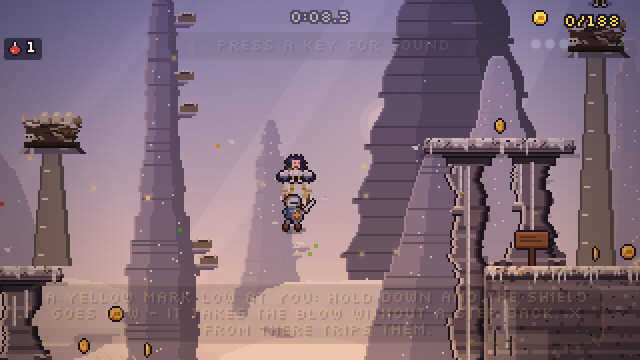
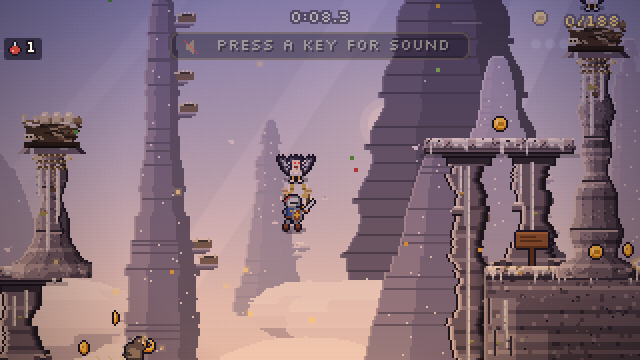
rookery2art: gale harpy own sheet, anchor art (spires, corbels, chains, lashings), shot tools

diff --git a/src/redraw/rookery_anchor_art.js b/src/redraw/rookery_anchor_art.js
@@ -1,0 +1,87 @@
+// rookery_anchor_art.js - THE ROOKERY'S STRUCTURE, DRAWN (claude/rookery2art; brief scratch/brief-rookery2-1027.md A3, Daniel 10-27: "stone ledges and pillars that end in mid-air, a lantern gibbet
+// on nothing"). Every roost, gale perch and hung nest's arm hangs on SOMETHING (src/rookery-anchors.js says what); this draws it, in the crag's own stone (rookery_pal.js) so it reads as part
+// of the cliff and not a prop:
+//   SPIRE     a hoodoo of wind-scoured rock rising from the footing - strata, a lit west face and a dark east one, guano streaked down from the nest, cracks, a lichen patch, its foot
+//             spread into scree - with the nest LASHED to its neck: sinew wraps over a stone shoulder, bone toggles, a rope tail hanging
+//   BRACKET   a CORBEL: a stepped stone brace growing out of the crag face under the nest (three courses, a diagonal buttress into the wall), pegged, lashed, guano dripping off its lip
+//   CHAIN     chains from the overhang above: a staple of iron and bone set in the rock, links of dark iron (lit on one side), two chains meeting a hide-wrapped ring at the nest's rim
+//   CAP       (the walkable-top cap is in rookery_tiles.js)
+// drawAnchor(g, q, cx, cy, TS, time, z)   q: { what, x, y, a: { kind, ... } } as src/rookery-anchors.js gives it.   Baked and memoised: a spire is one drawImage.
+import { canvas, rect as R, mulberry } from '../px.js';
+import { PAL, GUANO, BONE, TWIG, IRON, hash } from './rookery_pal.js';
+const memo = new Map(); const once = (k, fn) => { if (!memo.has(k)) memo.set(k, fn()); return memo.get(k); };
+const px = (g, x, y, c) => R(g, x, y, 1, 1, c);
+const SINEW = ['#5a4a32', '#8a7650', '#b8a47a', '#d8c8a0'];
+
+/* a SPIRE: h tall (from the nest knob's foot down to the footing), canvas 40 wide, its axis at x = 20. The top is the neck (half-width 6), widening to the foot (half-width 13 + scree) */
+function bakeSpire(h, z, seed) {
+  return once('sp' + h + '_' + z + '_' + seed, () => {
+    const W = 40, [c, g] = canvas(W, h + 8), r = mulberry(seed * 7 + h + z * 3), S = PAL[z].s, cxm = 20;
+    const half = y => { const t = y / Math.max(1, h), base = 6 + 7 * Math.pow(t, 1.55), wob = Math.sin(y * 0.31 + seed) * 1.1 + Math.sin(y * 0.11 + seed * 2) * 1.6; return Math.max(5, Math.round(base + wob + (y > h - 5 ? (y - (h - 5)) * 1.6 : 0))); };
+    for (let y = 0; y < h + 6; y++) {
+      const hw = half(Math.min(y, h)), x0 = cxm - hw, x1 = cxm + hw, bed = hash(y >> 1, seed + 5 + z) % 9, tone = bed === 0 ? -1 : bed === 1 ? 1 : 0;
+      for (let x = x0; x < x1; x++) {
+        const u = (x - x0) / (hw * 2);   /* 0 west .. 1 east: lit on the west, dark on the east */
+        let k = u < 0.18 ? 5 : u < 0.4 ? 4 : u < 0.68 ? 3 : u < 0.88 ? 2 : 1;
+        k = Math.max(0, Math.min(6, k + tone)); const j = hash(x, y + seed) % 23; if (j === 0) k = Math.max(0, k - 1); else if (j === 1) k = Math.min(6, k + 1);
+        px(g, x, y, S[k]);
+      }
+      px(g, x0, y, S[6]); px(g, x1 - 1, y, S[0]);   /* the rim light and the dark edge */
+    }
+    for (let q = 0; q < Math.floor(h / 22); q++) { const y = 16 + q * 22 + ((r() * 8) | 0), hw = half(y); R(g, cxm - hw + 1, y, hw * 2 - 2, 1, S[1]); R(g, cxm - hw + 2, y + 1, hw * 2 - 5, 1, S[5]); }   /* strata: a dark bed line and a lit one under it */
+    /* guano streaks from the nest down the west-centre face, a white core and a grey side, long drips */
+    for (const [dx, len] of [[-3, Math.min(h - 6, 26 + ((r() * 18) | 0))], [2, Math.min(h - 6, 14 + ((r() * 18) | 0))], [-7, Math.min(h - 6, 10 + ((r() * 10) | 0))]]) { for (let y = 6; y < 6 + len; y++) { px(g, cxm + dx, y, y % 6 === 5 ? GUANO[1] : GUANO[2]); px(g, cxm + dx + 1, y, GUANO[1]); if (y % 4 === 0) px(g, cxm + dx - 1, y, GUANO[0]); } px(g, cxm + dx, 6 + len, GUANO[1]); }
+    /* a black crack, a lichen patch */
+    { let x = cxm + 2 + ((r() * 4) | 0), y = 24 + ((r() * Math.max(1, h * 0.3)) | 0); for (let i = 0; i < 12 && y < h - 6; i++) { px(g, x, y, S[0]); y++; if (i % 3 === 1) x += r() < 0.5 ? -1 : 1; } }
+    { const L = PAL[z].lichen, lx = cxm - 6 + ((r() * 4) | 0), ly = 12 + ((r() * Math.max(1, h * 0.4)) | 0); R(g, lx, ly, 3, 2, L[0]); px(g, lx + 3, ly, L[1]); px(g, lx + 1, ly - 1, L[1]); }
+    /* the foot: scree and a white splash of guano where it meets the ledge */
+    for (let k = 0; k < 9; k++) { const x = 4 + ((r() * 32) | 0), y = h + ((r() * 4) | 0); R(g, x, y, 2 + ((r() * 3) | 0), 2, r() < 0.5 ? S[3] : S[4]); px(g, x, y, S[5]); }
+    return c; });
+}
+/* the LASHING at a nest's neck: sinew wrapped in a diagonal band over the stone, a bone toggle through each side, a rope tail hanging with a knot */
+function lashing(g, x, y, hw, seed) {
+  const r = mulberry(seed);
+  for (let b = 0; b < 3; b++) { const yy = y + b * 3; for (let xx = -hw; xx < hw; xx++) px(g, x + xx, yy + ((xx + b) & 1), SINEW[(xx + b) & 1 ? 1 : 2]); R(g, x - hw, yy, hw * 2, 1, SINEW[0]); for (let xx = -hw; xx < hw; xx += 3) px(g, x + xx, yy, SINEW[3]); }
+  for (const s of [-1, 1]) { R(g, x + s * (hw - 1) - (s > 0 ? 0 : 3), y + 1, 4, 2, BONE[2]); px(g, x + s * (hw - 1) - (s > 0 ? 0 : 3), y + 1, BONE[3]); px(g, x + s * (hw + 1) - (s > 0 ? 0 : 1), y + 2, BONE[1]); }
+  const tx = x + ((r() * 5) | 0) - 2; for (let i = 0; i < 9; i++) px(g, tx + (i > 5 ? 1 : 0), y + 8 + i, i % 2 ? SINEW[1] : SINEW[2]); R(g, tx - 1, y + 17, 3, 2, SINEW[0]);
+}
+/* a CORBEL (bracket): span px out from the face on side s (the wall is at x = wallX), seat at y; three stepped courses and a buttress. Local origin: the wall's face at (0, 0), growing toward +x */
+function bakeCorbel(span, z, seed) {
+  return once('cb' + span + '_' + z + '_' + seed, () => {
+    const W = span + 4, Hh = Math.min(40, 14 + Math.round(span * 0.5)), [c, g] = canvas(W, Hh), r = mulberry(seed + span), S = PAL[z].s;
+    const bh = Math.min(Hh - 3, 8 + Math.round(span * 0.55));
+    for (let x = 0; x < span; x++) { const t = x / span, hh = Math.max(4, Math.round(bh * (1 - t * 0.82))); for (let y = 0; y < hh; y++) { const k = y < 2 ? 5 : y > hh - 3 ? 1 : 3 + ((x + y) % 5 === 0 ? 1 : 0); px(g, x, y + 4, S[Math.max(0, Math.min(6, k))]); } }   /* the buttress: a wedge, tall at the wall, thin at the tip */
+    for (let k = 0; k < 3; k++) { const x0 = Math.round(span * (0.25 + k * 0.25)); R(g, x0, 4, 1, Math.max(2, Math.round(bh * (1 - (x0 / span) * 0.82))), S[1]); }   /* the courses' joints */
+    R(g, 0, 1, span + 2, 3, S[4]); R(g, 0, 1, span + 2, 1, S[6]); R(g, 0, 3, span + 2, 1, S[1]); R(g, 2, 0, span - 2, 1, GUANO[3]); R(g, 4, 1, span - 8 > 0 ? span - 8 : 2, 1, GUANO[2]);   /* the seat slab, capped with guano */
+    R(g, span + 1, 1, 2, 3, S[3]); px(g, span + 2, 1, S[5]);
+    for (let k = 0; k < 3; k++) { const x = 3 + ((r() * Math.max(1, span - 6)) | 0); for (let y = 4; y < 8 + ((r() * 5) | 0); y++) px(g, x, y, y % 2 ? GUANO[1] : GUANO[2]); }   /* guano dripping off the lip */
+    for (const x of [Math.round(span * 0.3), Math.round(span * 0.65)]) { R(g, x, 4, 3, 2, BONE[2]); px(g, x, 4, BONE[3]); px(g, x + 3, 5, BONE[1]); }   /* the bone pegs the lashings hold on */
+    return c; });
+}
+/* a CHAIN hanging dy px: alternate end-on and side-on links, dark iron lit on the west edge */
+function chain(g, x, y0, dy, seed) {
+  for (let y = 0; y < dy; y += 3) { const side = ((y / 3) | 0) % 2 === 0; if (side) { R(g, x - 1, y0 + y, 3, 3, IRON[1]); R(g, x, y0 + y + 1, 1, 1, '#000'); px(g, x - 1, y0 + y, IRON[3]); px(g, x + 1, y0 + y + 2, IRON[0]); } else { R(g, x, y0 + y, 1, 3, IRON[2]); px(g, x, y0 + y, IRON[3]); } }
+}
+function staple(g, x, y, z) {
+  const S = PAL[z].s; R(g, x - 4, y - 1, 9, 4, IRON[1]); R(g, x - 4, y - 1, 9, 1, IRON[3]); R(g, x - 4, y + 2, 9, 1, IRON[0]); px(g, x - 3, y, IRON[0]); px(g, x + 3, y, IRON[0]); R(g, x - 1, y + 3, 3, 2, IRON[2]); px(g, x, y + 5, IRON[1]);   /* the plate, rivets, the eye */
+  R(g, x - 6, y - 2, 2, 1, S[5]); R(g, x + 5, y - 2, 2, 1, S[1]); R(g, x - 1, y + 4, 3, 1, BONE[2]);   /* chipped rock round it, a bone washer */
+}
+
+export function drawAnchor(g, q, cx, cy, TS, time, z) {
+  const a = q.a; if (!a || a.kind === 'stand') return;
+  const x = Math.round(q.x * TS + 8 - cx), y = Math.round((q.y + 1) * TS - cy), seed = (q.x * 31 + q.y * 17) & 255;
+  if (a.kind === 'spire') {
+    const fy = Math.round(a.foot * TS - cy), top = y + 7, h = Math.max(12, fy - top);
+    const sp = bakeSpire(h, z, seed); g.drawImage(sp, x - 20, top);
+    lashing(g, x, top + 1, 8, seed);
+  } else if (a.kind === 'bracket') {
+    const side = a.side, wx = Math.round((side > 0 ? a.wall * TS : (a.wall + 1) * TS) - cx), span = Math.max(8, Math.abs(x - wx) + 12), cb = bakeCorbel(span, z, seed);
+    g.save(); g.translate(wx, y + 6); if (side > 0) g.scale(-1, 1); g.drawImage(cb, 0, 0); g.restore();
+    const nx = x; lashing(g, nx, y + 7, 9, seed);
+  } else if (a.kind === 'chain') {
+    const ty = Math.round((a.top + 1) * TS - cy);
+    for (const dx of [-12, 12]) { staple(g, x + dx, ty, z); chain(g, x + dx + (dx < 0 ? 0 : 0), ty + 5, Math.max(6, y + 5 - ty - 5), seed); }
+    for (const dx of [-12, 12]) { R(g, x + dx - 2, y + 2, 5, 3, SINEW[1]); R(g, x + dx - 2, y + 2, 5, 1, SINEW[3]); R(g, x + dx - 1, y + 5, 3, 2, BONE[2]); }   /* the hide-wrapped rings at the nest's rim */
+  }
+}
+export const SPRITES = () => ({ spire: bakeSpire(80, 1, 3), corbel: bakeCorbel(36, 1, 5), spireStair: bakeSpire(60, 3, 9) });

diff --git a/src/redraw/gale_harpy_art.js b/src/redraw/gale_harpy_art.js
@@ -1,0 +1,69 @@
+// gale_harpy_art.js - THE GALE HARPY'S OWN SHEET (claude/rookery2art; the greybox tinted the crag harpy teal). She is NOT the crag harpy: a different bird, in PROFILE (the crag harpy is
+// frontal, wings left and right) - a long lean raptor-woman leaning into the wind, pale storm-teal, the longest wings in the crag with white-tipped primaries, a streaming scarf of
+// head plumes and two tail streamers, cream ruff, a hooked yellow beak. Her silhouette is the wind itself: WINGS SWEPT BACK IS HER TELL.
+// Same frame contract as every harpy (src/gale-harpy.js galeFrame): 0 hover (wings raised), 1 hover (wings down), 2 THE BEAT (wings thrown forward and down, body leaned back), 3 BROKEN
+// (the tumble: wings crumpled, feathers loose, dizzy), 4 THE TELL (wings flung straight back and wide, chest out, beak open, red eyes), 5 HURT. Facing right; flipped for left.
+import { canvas, rect as R, line as line0, fillPoly, ellipse, circle, outline, flipX, whiten } from '../px.js';
+const OUT = '#1b1626';
+const C = { b: '#7ea4b0', B: '#4c6e7e', d: '#2c4654', l: '#b4d0d8', h: '#e8f2f4', ruff: '#f0ece0', ruffD: '#c8c0ac', face: '#ece0cc', faceD: '#bba890', beak: '#f0cc58', beakD: '#a8842c', talon: '#e8dcb0', leg: '#d4bc70', eye: '#ffe27a', red: '#ff4a2a', plume: '#dce8ee' };
+const W = 44, H = 32, AX = 27, AY = 30, OX = 8, OY = 4;   /* the canvas, and her talons' point (the feet) */
+const line = (g, a, b, c, d, col, t) => { if ([a, b, c, d].every(Number.isFinite)) line0(g, Math.round(a), Math.round(b), Math.round(c), Math.round(d), col, t); };
+function feather(g, x0, y0, a, len, w, col, tip) { const ca = Math.cos(a), sa = Math.sin(a); for (let i = 0; i < len; i++) { const ww = Math.max(1, Math.round(w * (1 - 0.5 * i / len))); R(g, Math.round(x0 + ca * i), Math.round(y0 + sa * i - ww / 2), 1, ww, i >= len - 2 && tip ? tip : col); } }
+/* a wing in profile: a shoulder (sx, sy), the arm out along angle a0 to the wrist (len L0), then n primaries fanned from the wrist over fan rad centred on angle a1, each up to Lp long */
+function wing(g, sx, sy, a0, L0, a1, fan, n, Lp, far) {
+  const wx = sx + Math.cos(a0) * L0, wy = sy + Math.sin(a0) * L0, base = far ? C.B : C.b, light = far ? C.B : C.l, dark = C.d;
+  for (let k = 0; k < n; k++) {
+    const t = n === 1 ? 0 : k / (n - 1), a = a1 + (t - 0.5) * fan, L = Lp * (0.7 + 0.3 * Math.sin(Math.PI * (0.15 + 0.7 * t)));
+    feather(g, wx, wy, a, Math.round(L), 2.6, k % 2 ? base : light, k === n - 1 || k === 0 || k === 3 ? C.h : dark);
+  }
+  line(g, sx, sy, wx, wy, base, 3); line(g, sx, sy - 1, wx, wy - 1, far ? C.B : C.l, 1);
+  ellipse(g, Math.round((sx + wx) / 2), Math.round((sy + wy) / 2), 3, 2, far ? C.B : C.b);
+}
+function bird(g, o) {
+  const tilt = o.tilt || 0, cx = 19, cy = o.cy ?? 14;
+  const pt = (x, y) => [cx + (x * Math.cos(tilt) - y * Math.sin(tilt)), cy + (x * Math.sin(tilt) + y * Math.cos(tilt))];
+  const sh = pt(-1, -3), hip = pt(-2, 6), hd = pt(4, -8);
+  if (o.wing) wing(g, sh[0] - 1, sh[1] + 1, ...o.wing, true);   /* the far wing first, behind everything */
+  for (const [da, L] of [[0.0, 10], [0.3, 8]]) feather(g, hip[0], hip[1], (o.tail ?? 2.05) + da, L, 2.2, C.B, C.h);   /* two long tail streamers */
+  const body = []; for (let i = 0; i < 16; i++) { const a = i / 16 * Math.PI * 2; body.push(pt(Math.cos(a) * 4.3, Math.sin(a) * 7)); }
+  fillPoly(g, body, C.b);
+  const lit = []; for (let i = 0; i < 16; i++) { const a = i / 16 * Math.PI * 2; lit.push(pt(Math.cos(a) * 2.8 - 0.8, Math.sin(a) * 5.4 - 0.5)); }
+  fillPoly(g, lit, C.l);
+  const ch = pt(2.2, -1); ellipse(g, Math.round(ch[0]), Math.round(ch[1]), o.chest ? 4 : 3, o.chest ? 6 : 5, C.ruff);   /* the cream ruff */
+  for (let q = 0; q < 4; q++) { const p = pt(1.2 + (q % 2), -4 + q * 2.6); R(g, Math.round(p[0]), Math.round(p[1]), 3, 1, C.ruffD); }
+  for (const dx of [-1.5, 1.8]) {   /* legs and talons, dangling (drawn up and curled in the beat) */
+    const t = pt(dx, 6), ex = t[0] + (o.legIn ? 0 : dx * 0.4), ey = t[1] + (o.legIn ? 3 : 6);
+    line(g, t[0], t[1], ex, ey, C.leg, 2); R(g, Math.round(ex) - 1, Math.round(ey), 4, 1, C.talon); R(g, Math.round(ex) + 2, Math.round(ey) + 1, 1, 1, C.talon); R(g, Math.round(ex) - 1, Math.round(ey) + 1, 1, 1, C.talon);
+  }
+  for (const [da, L] of [[-0.35, 9], [0, 11], [0.35, 8]]) feather(g, hd[0] - 1, hd[1] - 1, Math.PI + da + (o.plume || 0), L, 2.2, C.plume, C.l);   /* the plume scarf streaming back */
+  circle(g, Math.round(hd[0]), Math.round(hd[1]), 3, C.face); R(g, Math.round(hd[0]) - 2, Math.round(hd[1]) + 1, 3, 2, C.faceD);
+  const ex = Math.round(hd[0]) + 1, ey = Math.round(hd[1]) - 1;
+  if (o.hurt) { R(g, ex - 1, ey + 1, 3, 1, '#1b0a0a'); R(g, ex - 1, ey - 1, 3, 1, C.d); }
+  else if (o.dizzy) { R(g, ex - 1, ey, 1, 1, '#1b0a0a'); R(g, ex + 1, ey, 1, 1, '#1b0a0a'); R(g, ex, ey - 1, 1, 1, '#1b0a0a'); R(g, ex, ey + 1, 1, 1, '#1b0a0a'); }
+  else { R(g, ex - 1, ey, 3, 2, o.eye === 'red' ? C.red : C.eye); R(g, ex, ey, 1, 1, '#1b0a0a'); R(g, ex - 2, ey - 1, 4, 1, C.d); }
+  const bx = Math.round(hd[0]) + 2, by = Math.round(hd[1]) + 1;
+  if (o.beak) { fillPoly(g, [[bx, by - 2], [bx + 7, by - 1], [bx + 5, by], [bx, by]], C.beak); fillPoly(g, [[bx, by + 1], [bx + 6, by + 4], [bx + 3, by + 4], [bx, by + 3]], C.beakD); R(g, bx + 1, by, 4, 1, '#3a0c10'); }
+  else { fillPoly(g, [[bx, by - 2], [bx + 6, by], [bx + 5, by + 2], [bx + 2, by + 2.5], [bx, by + 2]], C.beak); R(g, bx + 4, by + 1, 2, 2, C.beakD); }
+  if (o.wing) wing(g, sh[0], sh[1], ...o.wing, false);   /* the near wing over the body */
+}
+const FR = [
+  /* 0 hover, wings raised in an arch above and behind */ { tilt: 0.32, wing: [-2.35, 8, -2.0, 1.05, 7, 12], plume: 0.1 },
+  /* 1 hover, wings swept down */ { tilt: 0.28, wing: [2.55, 7, 2.2, 0.9, 7, 11], tail: 2.15, plume: 0.35 },
+  /* 2 THE BEAT: wings thrown forward and down, body leaned back, legs drawn in */ { tilt: -0.22, cy: 13, wing: [0.55, 7, 1.0, 1.0, 7, 14], legIn: true, tail: 1.9, plume: -0.3, beak: true },
+  /* 3 BROKEN: tumbling, wings crumpled */ { tilt: 1.3, cy: 15, wing: [-2.9, 5, -2.4, 1.6, 6, 8], dizzy: true, legIn: true, tail: 3.0 },
+  /* 4 THE TELL: wings flung straight back and wide, chest out, beak open, red eyes */ { tilt: 0.12, cy: 14, wing: [-2.95, 9, -3.05, 0.95, 8, 15], chest: true, beak: true, eye: 'red', plume: -0.15 },
+  /* 5 HURT */ { tilt: -0.1, wing: [-2.2, 7, -1.8, 1.3, 7, 11], hurt: true, beak: true, legIn: true },
+];
+let SET = null;
+export function bakeGaleHarpy() {
+  if (SET) return SET;
+  const R0 = FR.map((o, i) => {
+    const [c, g] = canvas(W, H); g.save(); g.translate(OX, OY); bird(g, o); g.restore();
+    if (i === 3) { for (const [x, y] of [[8, 8], [36, 10], [14, 26], [34, 24]]) { R(g, x, y, 3, 1, C.h); R(g, x + 1, y - 1, 1, 1, C.l); } for (const [x, y] of [[21, 4], [28, 3], [24, 7]]) { R(g, x, y, 2, 2, '#ffe9a0'); R(g, x, y, 1, 1, '#fff'); } }   /* loose feathers and the tumble's stars */
+    outline(c, OUT); return c;
+  });
+  const w0 = R0.map(c => whiten(c));
+  SET = { R: R0, L: R0.map(flipX), white: { R: w0, L: w0.map(flipX) }, ax: AX, ay: AY, w: 14, h: 9 };
+  return SET;
+}
+export const SHEET = () => { const out = {}, S = bakeGaleHarpy(); S.R.forEach((c, i) => out['gale-harpy-' + i] = c); return out; };

diff --git a/src/rookery-hands.js b/src/rookery-hands.js
@@ -21,6 +21,7 @@
 import { canvas, flipX, whiten } from './px.js';
 import * as RKW from './redraw/rookery_world.js';
 import { drawHang } from './redraw/rookery_hang.js';
+import * as RKA from './redraw/rookery_anchor_art.js';
 import { GALE, GALE_SAY, galeStep, drawGust } from './gale-harpy.js';   /* (claude/rookery2) THE GALE HARPY: a shared foe module (Windcaller 4 and the Roc reuse it) */   /* (claude/rookeryart) the cracked rocks, nests, roosts, the area plate: drawn there */
 /* THE SHRIEKER's skin (greybox): the crag harpy's frames, darkened to a blood-red (her crest is drawn over her: harpyOver) - main.js SPR.shrieker */
 export function bakeShriekerSet(Hs) {
@@ -268,15 +269,8 @@ export function makeRookeryHands(ctx) {
     for (const [nx0, ny0] of (lv.rkNests || [])) { const x = R(nx0 * TS + 8 - cx), y = R((ny0 + 1) * TS - cy); if (x < -30 || x > VW + 30) continue; RKW.drawEggs(g, x, y, RKW.zoneIdx(nx0), nx0 & 3); }
     /* (claude/rookery2) THE ANCHORS (L.rkAnchors, src/rookery-anchors.js) - GREYBOX shapes the art lane redraws: a ROCK SPIRE from the footing under a roost / perch / arm
        with the nest LASHED to its tip, a stone BRACKET (corbel) from the crag face, CHAINS from the rock over it. The ride roosts and gale perches get their nest drawn here */
-    for (const q of (lv.rkAnchors || [])) { const a = q.a; if (!a) continue; const x = R(q.x * TS + 8 - cx), y = R((q.y + 1) * TS - cy); if (x < -60 || x > VW + 60) continue;
-      if (a.kind === 'spire') { const fy = R(a.foot * TS - cy), top = y - 4; for (let yy = top; yy < fy; yy += 2) { const k = (yy - top) / Math.max(1, fy - top), w = R(4 + k * 6);
-          rect(g, x - w, yy, w * 2, 2, C.rockD); rect(g, x - w + 1, yy, w * 2 - 3, 2, C.rock); if (((yy - top) >> 1) % 7 === 3) rect(g, x - w + 2, yy, 3, 1, C.lime); }
-        rect(g, x - 5, top - 1, 10, 2, C.rockL); }
-      else if (a.kind === 'bracket') { const wx = R((a.side > 0 ? a.wall * TS : (a.wall + 1) * TS) - cx), x0 = Math.min(wx, x), x1 = Math.max(wx, x);
-        for (let xx = x0; xx < x1; xx++) { const k = Math.abs(xx - wx) / Math.max(1, x1 - x0), h = R(9 - k * 6); rect(g, xx, y - 1, 1, h, C.rockD); rect(g, xx, y - 1, 1, Math.max(1, h - 2), C.rock); }
-        rect(g, x0, y - 2, x1 - x0, 1, C.rockL); }
-      else if (a.kind === 'chain') { const ty = R((a.top + 1) * TS - cy); g.fillStyle = '#4a4650'; for (const dx of [-6, 6]) for (let yy = ty; yy < y - 8; yy += 3) g.fillRect(x + dx, yy, 1, 2); }
-      if (a.kind !== 'stand') { g.fillStyle = C.twig; for (const dx of [-4, 0, 4]) g.fillRect(x + dx, y - 9, 1, 6); rect(g, x - 5, y - 6, 2, 1, C.bone); rect(g, x + 3, y - 7, 2, 1, C.bone); }   /* the lashings (rope, sinew, a bone in them) */
+    for (const q of (lv.rkAnchors || [])) { const a = q.a; if (!a) continue; const x = R(q.x * TS + 8 - cx), y = R((q.y + 1) * TS - cy); if (x < -60 || x > VW + 60) continue;   /* (claude/rookery2art) spires, corbels and chains: src/redraw/rookery_anchor_art.js */
+      RKA.drawAnchor(g, q, cx, cy, TS, time, RKW.zoneIdx(q.x));
       if (q.what === 'roost' && (lv.rkRides || []).some(d => d.id === q.id) || q.what === 'perch') RKW.drawRoost(g, x, y, RKW.zoneIdx(q.x)); }
     for (const c of S.cs.values()) { const d = c.d; if (!d.roost) continue; const x = R(d.roost[0] * TS + 8 - cx), y = R((d.roost[1] + 1) * TS - cy); if (x < -40 || x > VW + 40) continue; RKW.drawRoost(g, x, y, RKW.zoneIdx(d.roost[0])); }
     for (const c of S.cs.values()) { const d = c.d, mx = markX(d, TS), my = markY(d, TS), sx = R(mx - cx), sy = R(my - cy);

diff --git a/src/redraw/rookery_foes.js b/src/redraw/rookery_foes.js
@@ -4,12 +4,13 @@
 //   THE HARPY SHRIEKER (SPR.shrieker)  her own sheet: dusky rose-brown plumage, a fan of seven red crest feathers, a full pink throat sac, and (frame 4, 'aim') the SCREAM: head up, mouth wide, the sac swollen.
 // Both are bakeHarpy (src/redraw/foes1.js) with a palette / a head - one set of frames, so every rule that reads a harpy's frame (the dive, the stun, the stoop, the hurt flash) is unchanged.
 import { bakeHarpy } from './foes1.js';
+import { bakeGaleHarpy as bakeGaleOwn } from './gale_harpy_art.js';
 export const CRAG = { h: '#c9c7d6', H: '#6c6a86', z: '#2a2838', F: '#eeecf4', c: '#2e2c46', C: '#55527a', k: '#e8dccf', K: '#b49a8a' };
 export const SHRIEK = { h: '#8a4a58', H: '#52262e', z: '#2a1420', F: '#c8808c', c: '#4a1c26', C: '#7a2c3a', k: '#e4bcae', K: '#b08878', R: '#9a2a28', q: '#ee9aa0' };
 export const bakeCragHarpy = () => bakeHarpy(CRAG, false);
 export const bakeShrieker = () => bakeHarpy(SHRIEK, true);
 /* the frames, for the contact sheet (tools/rookeryart-sheet.mjs) */
-export const SHEET = () => { const out = {}, A = bakeHarpy({}, false), B = bakeCragHarpy(), C = bakeShrieker(); A.R.forEach((c, i) => out['moor-harpy-' + i] = c); B.R.forEach((c, i) => out['crag-harpy-' + i] = c); C.R.forEach((c, i) => out['shrieker-' + i] = c); return out; };
+export const SHEET = () => { const out = {}, A = bakeHarpy({}, false), B = bakeCragHarpy(), C = bakeShrieker(), D = bakeGaleOwn(); D.R.forEach((c, i) => out['gale-harpy-' + i] = c); A.R.forEach((c, i) => out['moor-harpy-' + i] = c); B.R.forEach((c, i) => out['crag-harpy-' + i] = c); C.R.forEach((c, i) => out['shrieker-' + i] = c); return out; };
 /* (claude/rookery2) THE GALE HARPY (SPR.galeharpy, src/gale-harpy.js) - GREYBOX: the crag harpy's six frames in storm teal-grey (frame 4, wings back, is her tell; 2 her beat). The sonnet art lane gives her own sheet. */
 export const GALEP = { h: '#7f9aa6', H: '#3e5662', z: '#1c2a32', F: '#c4d6dc', c: '#20323c', C: '#46606c', k: '#e0d8cc', K: '#a8968a' };
-export const bakeGaleHarpy = () => bakeHarpy(GALEP, false);
+export const bakeGaleHarpy = () => bakeGaleOwn();   /* (claude/rookery2art) her OWN sheet now: src/redraw/gale_harpy_art.js (profile, wings swept back = her tell) */
